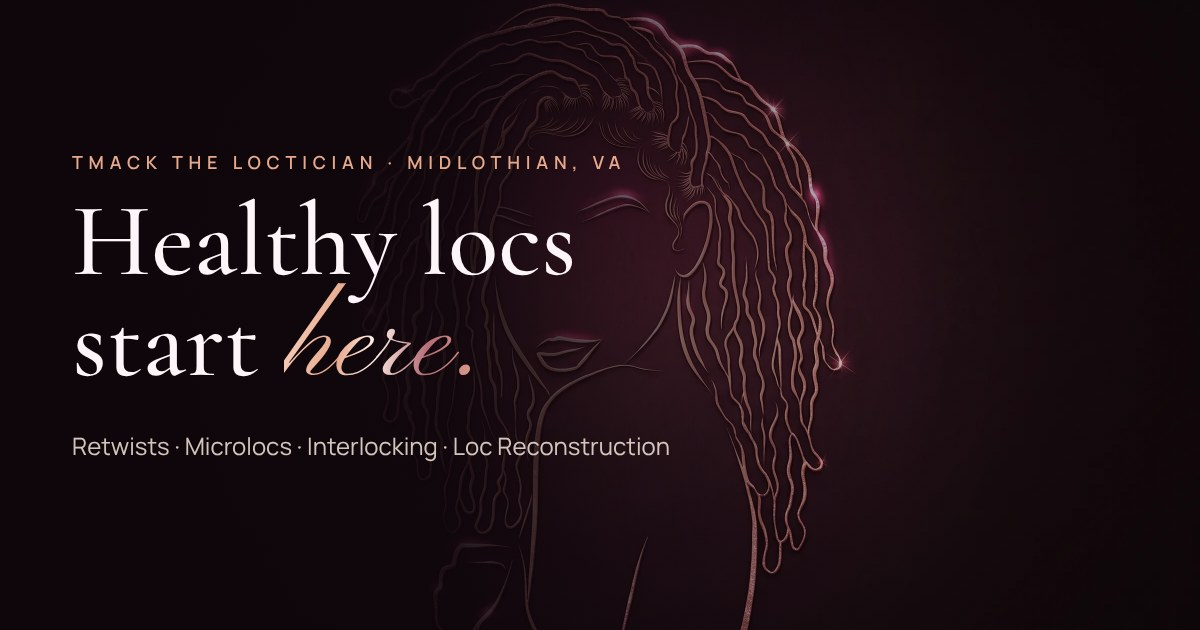
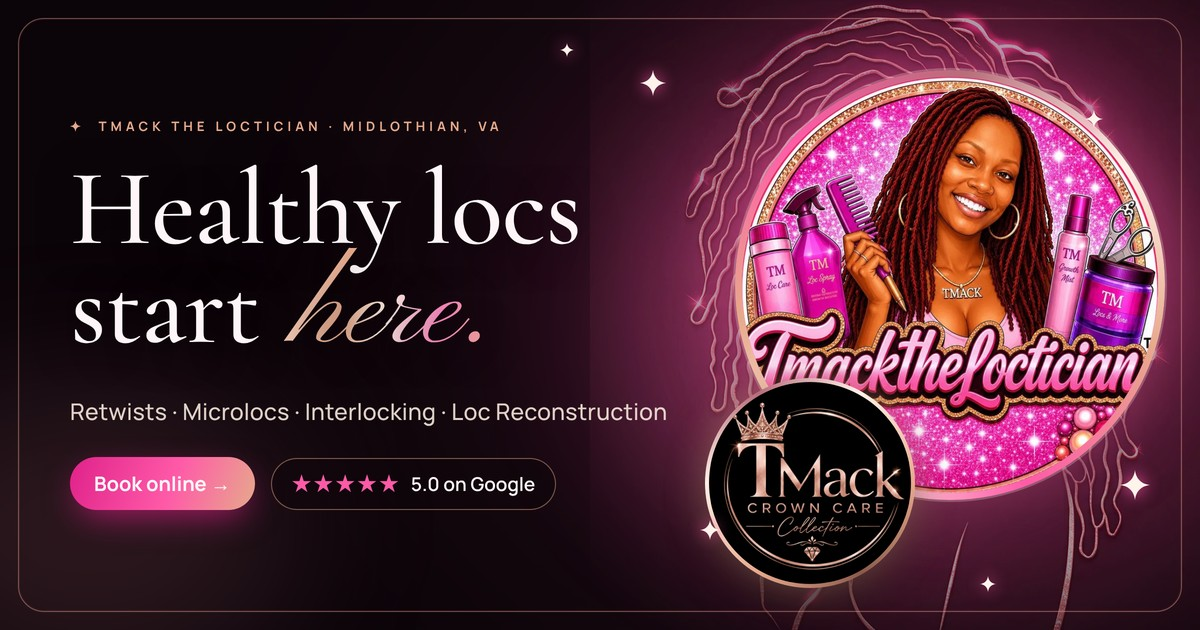
Improve share previews and demo SEO: OG images, demo URL, noindex on Netlify.
Per-route Open Graph assets for shop and portal; NEXT_PUBLIC_SITE_URL for launch.

diff --git a/src/app/layout.tsx b/src/app/layout.tsx
@@ -1,7 +1,7 @@
 import type { Metadata, Viewport } from "next";
 import localFont from "next/font/local";
 import "./globals.css";
-import { SITE } from "@/lib/site";
+import { IS_DEMO_HOST, SITE } from "@/lib/site";
 import { SERVICES } from "@/lib/services";
 import { CartProvider } from "@/components/shop/cart";
 
@@ -36,14 +36,23 @@ export const metadata: Metadata = {
     "starter locs Midlothian",
     "loc detox",
   ],
+  // Share card (iMessage, Android Messages, WhatsApp, Facebook, Instagram DMs). No og:url on purpose:
+  // previews always open exactly the link that was sent.
   openGraph: {
     type: "website",
     siteName: SITE.name,
     locale: "en_US",
-    url: "/",
-    images: [{ url: "/og.jpg", width: 1200, height: 630, alt: "TMack The Loctician — Healthy locs start here" }],
+    title: "TMack The Loctician — Healthy locs start here.",
+    description: "Master Loctician in Midlothian, VA · Retwists, microlocs, interlocking & loc reconstruction · TMack Crown Care products · 5.0★ on Google.",
+    images: [{ url: "/og/tmack-site.jpg", width: 1200, height: 630, type: "image/jpeg", alt: "TMack The Loctician and TMack Crown Care logos — Healthy locs start here" }],
   },
-  twitter: { card: "summary_large_image", images: ["/og.jpg"] },
+  twitter: {
+    card: "summary_large_image",
+    title: "TMack The Loctician — Healthy locs start here.",
+    description: "Master Loctician in Midlothian, VA · Retwists, microlocs, interlocking & loc reconstruction · 5.0★ on Google.",
+    images: ["/og/tmack-site.jpg"],
+  },
+  ...(IS_DEMO_HOST ? { robots: { index: false, follow: false } } : {}),
   alternates: { canonical: "/" },
   icons: {
     icon: [

diff --git a/src/lib/site.ts b/src/lib/site.ts
@@ -9,7 +9,12 @@ export const SITE = {
   legalName: "TMack The Loctician LLC",
   owner: "TMack",
   title: "Master Loctician & Certified Micro Loc Specialist",
-  url: "https://tmacktheloctician.com",
+  /**
+   * The address every share preview, canonical tag and sitemap points to.
+   * Defaults to the live demo on Netlify. At launch, set NEXT_PUBLIC_SITE_URL=https://tmacktheloctician.com
+   * in Netlify → Site configuration → Environment variables and redeploy.
+   */
+  url: (process.env.NEXT_PUBLIC_SITE_URL || "https://tmack-the-loctician-demo.netlify.app").replace(/\/$/, ""),
   phone: "(804) 464-8208",
   phoneHref: "tel:+18044648208",
   email: "info@tmackcrowncare.com",
@@ -55,6 +60,9 @@ export const SITE = {
   paymentMethods: ["Apple Pay", "Cash App ($TMacktheloctician)", "PayPal (Tmacktheloctician)"],
   bnpl: ["Klarna", "Affirm"],
 } as const;
+
+/** True while the site runs on the Netlify demo address (kept out of Google so it never competes with the real domain). */
+export const IS_DEMO_HOST = SITE.url.includes("netlify.app");
 
 /**
  * Which booking experience the site's "Book" buttons open.

diff --git a/src/app/portal/layout.tsx b/src/app/portal/layout.tsx
@@ -6,6 +6,15 @@ export const metadata: Metadata = {
   title: { default: "Booking Portal (Demo)", template: "%s · TMack Booking Portal" },
   description: "TMack The Loctician's branded booking portal — client booking and owner dashboard (demo).",
   robots: { index: false, follow: false },
+  alternates: { canonical: null },
+  openGraph: {
+    type: "website",
+    siteName: "TMack The Loctician",
+    title: "Book with TMack — Booking Portal",
+    description: "Pick your service and time in under a minute. Deposits, reminders and your loc journey in one place.",
+    images: [{ url: "/og/tmack-booking.jpg", width: 1200, height: 630, type: "image/jpeg", alt: "TMack booking portal with TMack The Loctician and Crown Care logos" }],
+  },
+  twitter: { card: "summary_large_image", title: "Book with TMack — Booking Portal", images: ["/og/tmack-booking.jpg"] },
 };
 
 export default function PortalLayout({ children }: { children: React.ReactNode }) {

diff --git a/src/app/(site)/shop/page.tsx b/src/app/(site)/shop/page.tsx
@@ -14,6 +14,14 @@ export const metadata: Metadata = {
   description:
     "All-natural loc care from TMack The Loctician: Loc Moisturizer Spritz, Chebe Growth Oil and satin bonnets. Free shipping over $100. Code TMACK10 for 10% off 2+ items.",
   alternates: { canonical: "/shop" },
+  openGraph: {
+    type: "website",
+    siteName: "TMack The Loctician",
+    title: "TMack Crown Care Collection — Crown Care, at home.",
+    description: "All-natural loc spritz, Chebe growth oil & satin bonnets — made by a master loctician. Free shipping over $100.",
+    images: [{ url: "/og/tmack-crown-care.jpg", width: 1200, height: 630, type: "image/jpeg", alt: "TMack Crown Care Loc Moisturizer Spritz and Chebe Growth Oil with the TMack logos" }],
+  },
+  twitter: { card: "summary_large_image", title: "TMack Crown Care Collection — Crown Care, at home.", images: ["/og/tmack-crown-care.jpg"] },
 };
 
 export default function ShopPage() {

diff --git a/src/app/(site)/shop/[handle]/page.tsx b/src/app/(site)/shop/[handle]/page.tsx
@@ -21,7 +21,14 @@ export async function generateMetadata({ params }: { params: Promise<{ handle: s
     title: `${p.name}${p.size ? ` (${p.size})` : ""} — TMack Crown Care Collection`,
     description: `${p.short} ${p.description}`.slice(0, 158),
     alternates: { canonical: `/shop/${p.handle}` },
-    openGraph: { images: [{ url: p.image, alt: p.imageAlt }] },
+    openGraph: {
+      type: "website",
+      siteName: "TMack The Loctician",
+      title: `${p.name} — TMack Crown Care Collection`,
+      description: p.short,
+      images: [{ url: p.image, alt: p.imageAlt }],
+    },
+    twitter: { card: "summary_large_image", title: `${p.name} — TMack Crown Care Collection`, images: [p.image] },
   };
 }
 

diff --git a/LAUNCH-NOTES.md b/LAUNCH-NOTES.md
@@ -15,7 +15,8 @@
 12. **Instagram/TikTok handles.** @tmacktheloctician (IG, TikTok link in bio paa.ge/tmacktheloctician). Shop IG @TMack_crowncare (from the spritz label). Facebook page URL not found publicly — add if she wants it.
 13. **Google Maps link** uses her listing CID (`maps?cid=14928887747521058894`). Verify it opens her profile.
 14. **Shop checkout.** The bag sends customers to her real Shopify checkout with items pre-filled (verified working: 2 items → $39.98). Shopify checkout offers Ship or Pickup — confirm pickup location/details.
-15. **Domain.** tmacktheloctician.com currently redirects to Acuity. Repoint DNS to Netlify at launch (all canonicals/sitemap already use https://tmacktheloctician.com).
+15. **Domain.** tmacktheloctician.com currently redirects to Acuity. Until launch, the site's address is the demo (https://tmack-the-loctician-demo.netlify.app): share previews, canonical tags, sitemap and schema all point there, and the demo is kept out of Google (noindex) so it never competes with the real domain. **At launch:** point the domain's DNS at Netlify, add `NEXT_PUBLIC_SITE_URL=https://tmacktheloctician.com` in Netlify → Site configuration → Environment variables, and redeploy. Indexing turns on automatically and every preview switches to the real domain.
+16. **Text/social share cards.** `public/og/tmack-site.jpg` (home + all site pages), `tmack-booking.jpg` (every /portal link), `tmack-crown-care.jpg` (/shop); product pages use the product photo. No og:url is set on purpose, so a texted link always opens exactly the link that was sent. Phones cache previews per link, so when testing a new card, text a link you haven't sent before (e.g. add `?v=2`).
 
 ## Booking portal (demo → live)
 - Demo today: fictional clients/appointments, demo sign-in, demo card (no charge), resets on refresh. Every demo surface is labeled.
